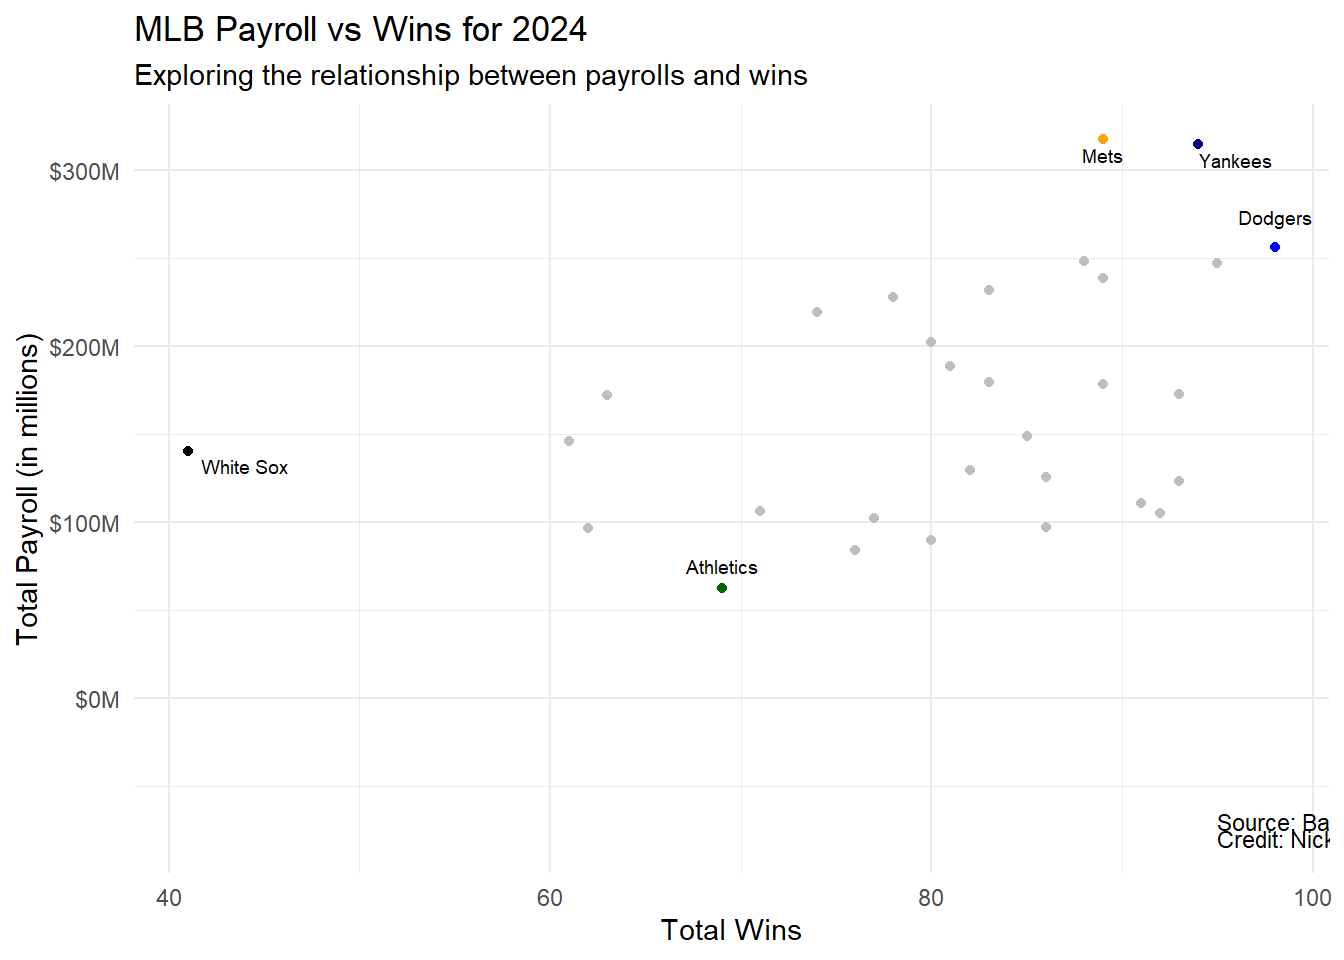
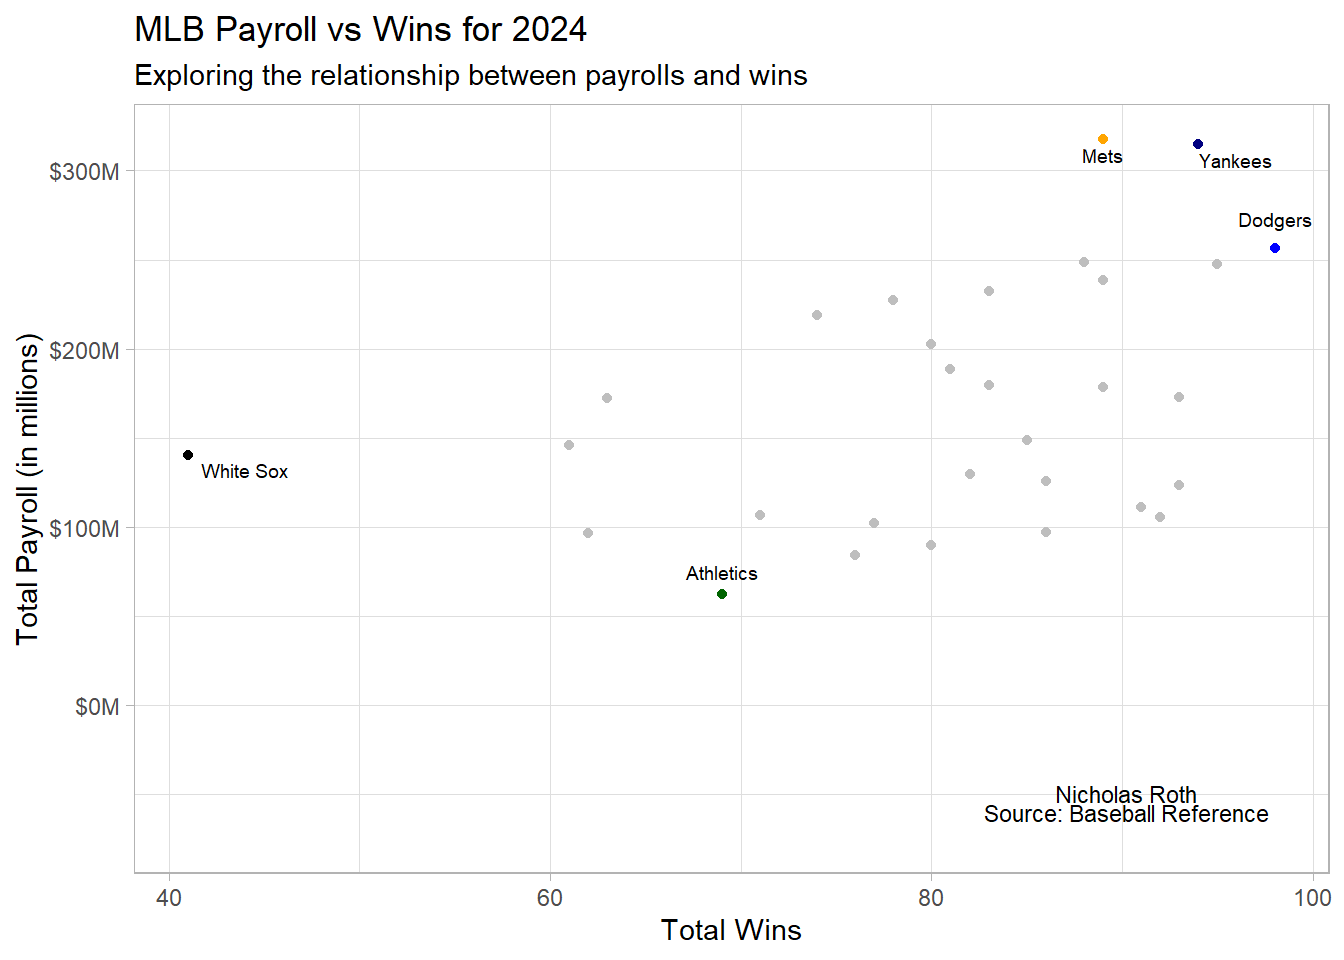
chart

diff --git a/building.html b/building.html
@@ -207,15 +207,15 @@ Attaching package: 'dplyr'</code></pre>
 <span id="cb6-25"><a href="#cb6-25" aria-hidden="true" tabindex="-1"></a>            <span class="fu">aes</span>(<span class="at">x =</span> Wins, <span class="at">y =</span> Payroll, <span class="at">label =</span> <span class="st">"Athletics"</span>),</span>
 <span id="cb6-26"><a href="#cb6-26" aria-hidden="true" tabindex="-1"></a>            <span class="at">vjust =</span> <span class="sc">-</span><span class="dv">1</span>, <span class="at">color =</span> <span class="st">"black"</span>, <span class="at">size =</span> <span class="fl">2.5</span>) <span class="sc">+</span> </span>
 <span id="cb6-27"><a href="#cb6-27" aria-hidden="true" tabindex="-1"></a>  <span class="fu">scale_y_continuous</span>(<span class="at">labels =</span> scales<span class="sc">::</span><span class="fu">label_dollar</span>(<span class="at">scale =</span> <span class="fl">1e-6</span>, <span class="at">suffix =</span> <span class="st">"M"</span>)) <span class="sc">+</span></span>
-<span id="cb6-28"><a href="#cb6-28" aria-hidden="true" tabindex="-1"></a>  <span class="fu">theme_minimal</span>() <span class="sc">+</span> </span>
+<span id="cb6-28"><a href="#cb6-28" aria-hidden="true" tabindex="-1"></a>  <span class="fu">theme_light</span>() <span class="sc">+</span>  <span class="co"># Apply the light theme here permanently for this plot</span></span>
 <span id="cb6-29"><a href="#cb6-29" aria-hidden="true" tabindex="-1"></a>  <span class="fu">labs</span>(</span>
 <span id="cb6-30"><a href="#cb6-30" aria-hidden="true" tabindex="-1"></a>    <span class="at">title =</span> <span class="st">"MLB Payroll vs Wins for 2024"</span>,</span>
 <span id="cb6-31"><a href="#cb6-31" aria-hidden="true" tabindex="-1"></a>    <span class="at">subtitle =</span> <span class="st">"Exploring the relationship between payrolls and wins"</span>,</span>
 <span id="cb6-32"><a href="#cb6-32" aria-hidden="true" tabindex="-1"></a>    <span class="at">x =</span> <span class="st">"Total Wins"</span>,</span>
 <span id="cb6-33"><a href="#cb6-33" aria-hidden="true" tabindex="-1"></a>    <span class="at">y =</span> <span class="st">"Total Payroll (in millions)"</span></span>
 <span id="cb6-34"><a href="#cb6-34" aria-hidden="true" tabindex="-1"></a>  ) <span class="sc">+</span></span>
-<span id="cb6-35"><a href="#cb6-35" aria-hidden="true" tabindex="-1"></a>  <span class="fu">annotate</span>(<span class="st">"text"</span>, <span class="at">x =</span> <span class="dv">95</span>, <span class="at">y =</span> <span class="sc">-</span><span class="dv">70000000</span>, <span class="at">label =</span> <span class="st">"Source: Baseball Reference"</span>, <span class="at">size =</span> <span class="dv">3</span>, <span class="at">color =</span> <span class="st">"black"</span>, <span class="at">hjust =</span> <span class="dv">0</span>) <span class="sc">+</span></span>
-<span id="cb6-36"><a href="#cb6-36" aria-hidden="true" tabindex="-1"></a>  <span class="fu">annotate</span>(<span class="st">"text"</span>, <span class="at">x =</span> <span class="dv">95</span>, <span class="at">y =</span> <span class="sc">-</span><span class="dv">80000000</span>, <span class="at">label =</span> <span class="st">"Credit: Nick Roth"</span>, <span class="at">size =</span> <span class="dv">3</span>, <span class="at">color =</span> <span class="st">"black"</span>, <span class="at">hjust =</span> <span class="dv">0</span>)</span></code><button title="Copy to Clipboard" class="code-copy-button"><i class="bi"></i></button></pre></div>
+<span id="cb6-35"><a href="#cb6-35" aria-hidden="true" tabindex="-1"></a>  <span class="fu">annotate</span>(<span class="st">"text"</span>, <span class="at">x =</span> <span class="dv">85</span>, <span class="at">y =</span> <span class="sc">-</span><span class="dv">70000000</span>, <span class="at">label =</span> <span class="st">"Source: Baseball Reference"</span>, <span class="at">size =</span> <span class="dv">3</span>, <span class="at">color =</span> <span class="st">"black"</span>, <span class="at">hjust =</span> <span class="fl">0.15</span>, <span class="at">vjust =</span> <span class="sc">-</span><span class="fl">0.5</span>) <span class="sc">+</span></span>
+<span id="cb6-36"><a href="#cb6-36" aria-hidden="true" tabindex="-1"></a>  <span class="fu">annotate</span>(<span class="st">"text"</span>, <span class="at">x =</span> <span class="dv">85</span>, <span class="at">y =</span> <span class="sc">-</span><span class="dv">75000000</span>, <span class="at">label =</span> <span class="st">"Nicholas Roth"</span>, <span class="at">size =</span> <span class="dv">3</span>, <span class="at">color =</span> <span class="st">"black"</span>, <span class="at">hjust =</span> <span class="sc">-</span>.<span class="dv">2</span>, <span class="at">vjust =</span> <span class="sc">-</span><span class="dv">2</span>)</span></code><button title="Copy to Clipboard" class="code-copy-button"><i class="bi"></i></button></pre></div>
 <div class="cell-output-display">
 <div>
 <figure class="figure">

diff --git a/index.html b/index.html
@@ -209,7 +209,7 @@ window.Quarto = {
 
 <div class="quarto-listing quarto-listing-container-default" id="listing-listing">
 <div class="list quarto-listing-default">
-<div class="quarto-post image-right" data-index="0" data-categories="mlb,baseball,salarycap" data-listing-date-sort="1743483600000" data-listing-file-modified-sort="1743722401203" data-listing-date-modified-sort="NaN" data-listing-reading-time-sort="1" data-listing-word-count-sort="13">
+<div class="quarto-post image-right" data-index="0" data-categories="mlb,baseball,salarycap" data-listing-date-sort="1743483600000" data-listing-file-modified-sort="1744684600206" data-listing-date-modified-sort="NaN" data-listing-reading-time-sort="3" data-listing-word-count-sort="506">
 <div class="thumbnail">
 <p><a href="./posts/mlb-money-problem/index.html" class="no-external"></a></p><a href="./posts/mlb-money-problem/index.html" class="no-external">
 <p><img loading="lazy" src="./posts/mlb-money-problem/image.png" class="thumbnail-image"></p>
